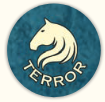
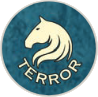
Fixed issue where Terror Tokens weren't showing (#386)

diff --git a/src/main/java/controller/commands/ShowCommands.java b/src/main/java/controller/commands/ShowCommands.java
@@ -192,7 +192,7 @@ public class ShowCommands {
         for (Territory territory : game.getTerritories().values()) {
             if (territory.getForces().isEmpty() && territory.getSpice() == 0
                     && !territory.hasRicheseNoField() && territory.getEcazAmbassador() == null
-                    && !territory.isAftermathToken()) continue;
+                    && !territory.isAftermathToken() && !territory.hasTerrorToken()) continue;
             if (territory.getTerritoryName().equals("Hidden Mobile Stronghold")) continue;
             int offset = 0;
             int i = 0;

diff --git a/src/main/java/model/Territory.java b/src/main/java/model/Territory.java
@@ -178,6 +178,9 @@ public class Territory {
         this.terrorToken = terrorToken;
     }
 
+    public boolean hasTerrorToken() {
+        return terrorToken != null;
+    }
 
     public boolean isAftermathToken() {
         return aftermathToken;
